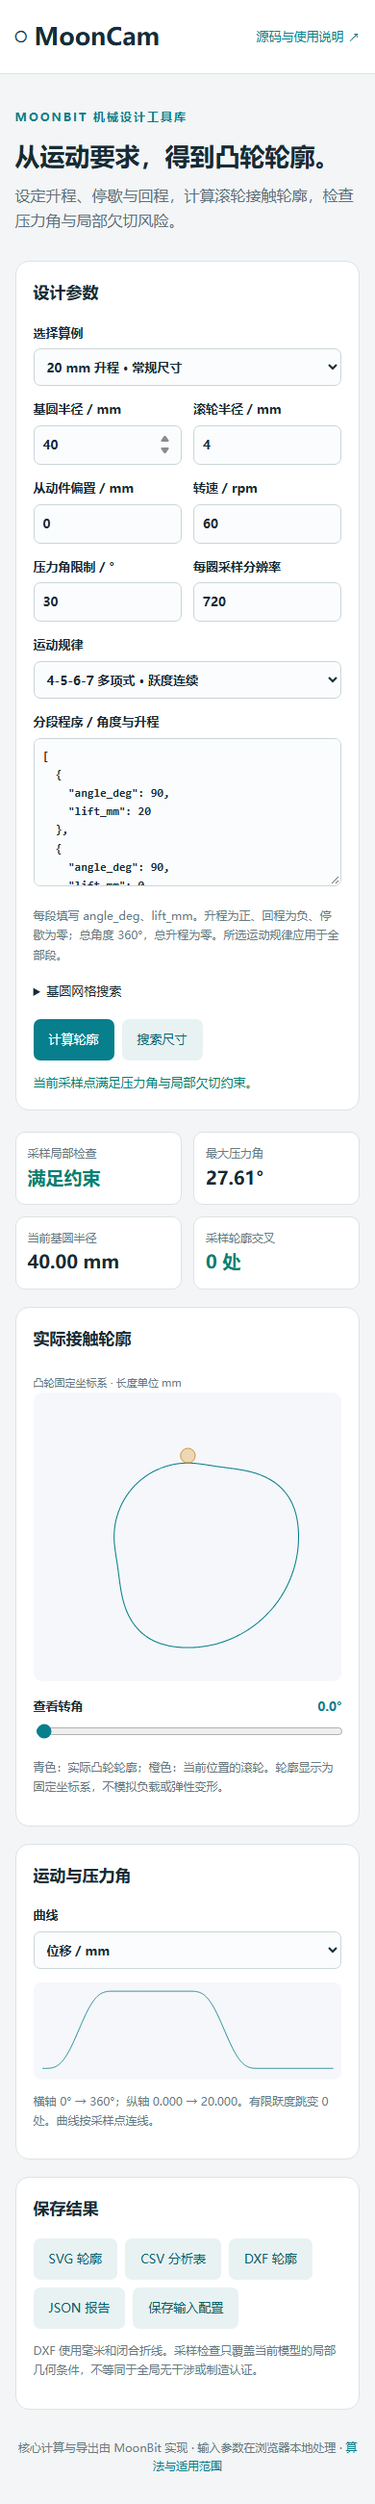
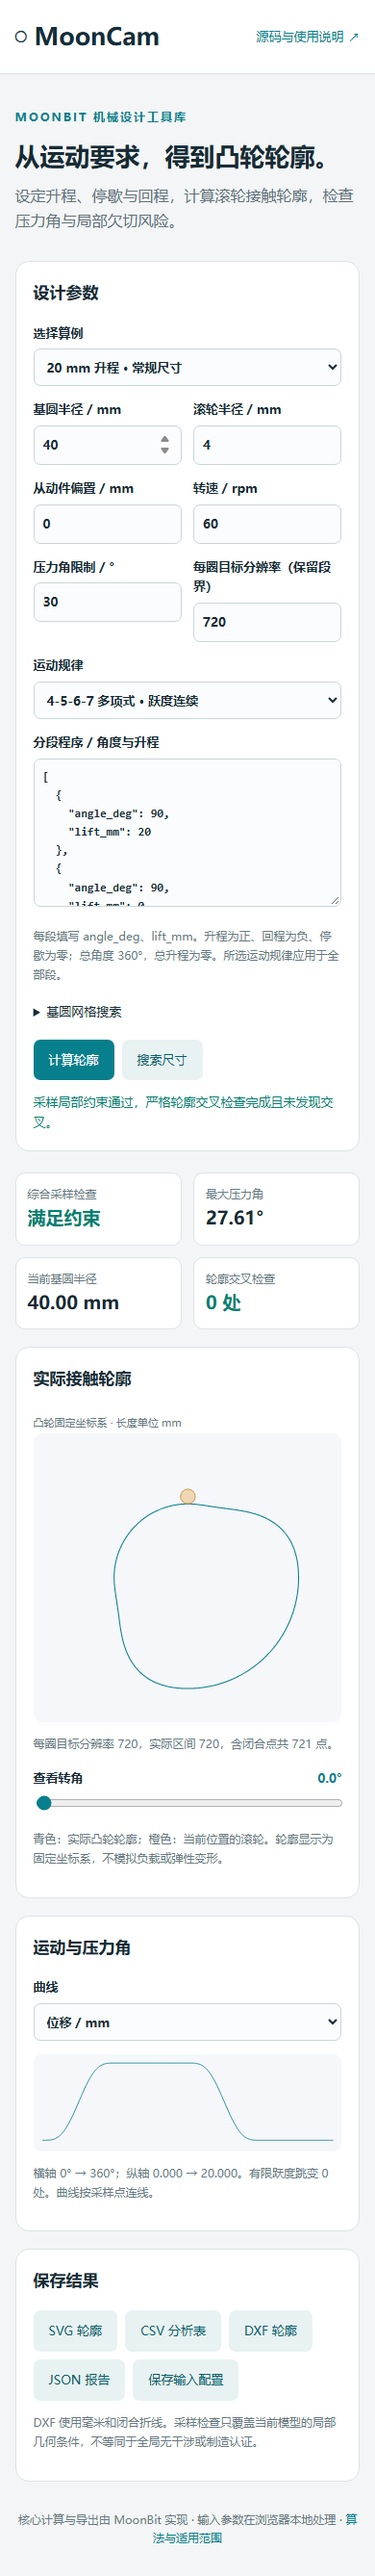
docs: publish schema v2 migration and Chinese review of fourteen findings

diff --git a/docs/优化核查记录.md b/docs/优化核查记录.md
@@ -1,0 +1,62 @@
+# 0.2 优化核查记录
+
+本次针对 14 项反馈逐项检查。基线提交为 2fb4476；原始计时数据见 benchmarks/2026-10-21.json。
+
+| 项目 | 处理与验证 |
+| --- | --- |
+| 1 重复 timed 求值 | 直接使用缓存角导数换算，保留溢出检查 |
+| 2 每点重复参数校验 | 批量入口校验一次，内部使用已校验路径 |
+| 3 从首段扫描 | Program 缓存段边界，任意查询二分定位，采样直接使用段号 |
+| 4 平方交叉枚举 | 保守包围盒分桶，首个公共桶去重；与测试专用二次算法差分比较 |
+| 5 搜索全量分配 | 复用粗细运动网格；标量筛选不计算坐标，不保留 CamPoint 数组 |
+| 6 响应重复输出 | outputs 选择格式，默认仅点数据，输入回显默认关闭 |
+| 7 report 内嵌导出文件 | CLI 保存摘要和文件引用，input.json 单独保存原始配置 |
+| 8 交叉仍报可行 | 综合采样通过必须局部通过且完成零交叉检查；搜索发现交叉继续遍历 |
+| 9 -1 哨兵值 | 改用 complete / failed / not_checked，未完成时 count=null |
+| 10 根切角命名 | 改为 min_offset_factor_angle，JSON 明确弧度后缀 |
+| 11 输入上限 | CLI 与 API 共用 MoonBit 导出的 200000 UTF-8 字节限制，包含中文边界测试 |
+| 12 搜索无解退出码 | no_candidate 对应 3；输入/运行错误对应 1，检查未完成对应 4 |
+| 13 分辨率歧义 | 保留段边界采样，显式报告目标密度、实际区间、含闭合点总数 |
+| 14 科学计数法 DXF | 原输出确实含指数，但 ezdxf 1.4.5 能正确读取；补测试，未将猜测写成已确认缺陷 |
+
+## 性能实测
+
+同一 Node 进程中对旧、新引擎交替计时；预热 5 次、采集 15 次取中位数。下表请求同样的点数据和三种导出格式，用来观察计算改动，而非仅靠省略输出获得加速。
+
+| 工作负载 | 基线 / ms | 优化后 / ms | 比值 |
+| --- | --- | --- | --- |
+| 720 目标分辨率 | 5.25 | 4.15 | 约 1.27 倍 |
+| 4000 目标分辨率 | 77.19 | 33.01 | 约 2.34 倍 |
+| 示例基圆搜索 | 7.03 | 4.04 | 约 1.74 倍 |
+| 128 段程序 | 6.07 | 4.12 | 约 1.47 倍 |
+
+4000 分辨率案例的旧完整响应约 2.41 MB；新默认响应约 1.33 MB，仅摘要约 842 字节。完整选择全部格式时仍有约 2.40 MB，因为这是使用者明确要求的数据。输入副本不是同一轮廓的重复序列化，但默认关闭它可减少体积并避免无意回显。
+
+计时受机器、JIT、输入形状和输出选择影响。分桶在大量长包围盒重叠时仍可能退化，以上不是最坏复杂度或普遍加速保证。
+
+## 重现
+
+```sh
+npm run build
+npm run test:integration
+python tests/oracle.py
+python -m pip install -r requirements-test.txt
+python tests/dxf_interop.py
+npm run benchmark
+```
+
+对照旧版本时，在独立工作树构建基线，再运行：
+
+```sh
+git worktree add --detach artifacts/baseline 2fb4476
+cd artifacts/baseline
+npm run build
+cd ../..
+node tests/benchmark.mjs artifacts/baseline/web/engine.js
+```
+
+脚本写入 artifacts/performance.json。新的基础测试覆盖标量/完整结果一致、分段采样与二分查询一致、交叉算法差分、失败状态、输入字节边界、CLI 退出码、紧凑报告与按需格式。
+
+## 仍需明确的边界
+
+完成的零交叉检查只排除了采样折线的严格交叉，没有证明连续轮廓的相切、共线重叠、采样间回环或远处滚轮干涉不存在。DXF 独立读取只验证特定读取器的互操作，不替代商业 CAD 或加工验证。

diff --git a/README.md b/README.md
@@ -41,9 +41,9 @@ node bin/mooncam.mjs examples/workshop.json --out artifacts/workshop
 npm run serve
 ```
 
-访问 `http://127.0.0.1:4173/`。运行上述流程无需安装 npm 开发依赖。输出目录包含 `profile.svg`、`profile.csv`、`profile.dxf`、`report.json`。
+访问 `http://127.0.0.1:4173/`。运行上述流程无需安装 npm 开发依赖。输出目录包含 `profile.svg`、`profile.csv`、`profile.dxf`、`report.json`、`input.json`。
 
-CLI 退出码：`0` 表示采样局部约束满足，`2` 表示不满足，`1` 表示输入或运行错误。退出码不包含全局无干涉和制造认证。
+CLI 退出码：`0` 表示局部条件通过且严格折线交叉检查完成、未发现交叉；`2` 表示采样检查拒绝；`3` 表示搜索未找到候选；`4` 表示检查未完成；`1` 表示输入或运行错误。通过采样检查不等于连续轮廓全局无干涉或制造认证。
 
 ## 四个可运行案例
 
@@ -104,6 +104,8 @@ moon test --target js
 npm run build
 npm run test:integration
 python tests/oracle.py
+python -m pip install -r requirements-test.txt
+python tests/dxf_interop.py
 npm ci
 npx playwright install chromium
 npm run test:browser
@@ -115,7 +117,7 @@ npm run test:browser
 
 ## 适用边界
 
-`sampled_local_feasible` 只表示当前采样点满足压力角与局部偏置条件。采样折线交叉另行报告；零交叉不代表连续轮廓没有相切、采样间回环或非局部滚轮干涉。应提高分辨率检查收敛；采样不能替代连续极值求解。
+`sampled_local_feasible` 只表示局部条件；`sampled_feasible` 还要求严格折线交叉检查完成且计数为零。`crossing_check` 明确区分完成、失败和未检查。零交叉不代表连续轮廓没有相切、采样间回环或非局部滚轮干涉。应提高分辨率检查收敛；采样不能替代连续极值求解。
 
 当前不包含强度、载荷、弹簧预紧、磨损、弹性和公差分析。DXF 是离散轮廓交换文件，未承诺可直接加工。详见 [算法与适用范围](docs/算法与适用范围.md)。
 
@@ -124,3 +126,9 @@ npm run test:browser
 按公开机械运动学公式独立编写，未复制第三方凸轮实现代码。参考项目与来源见 [参考与来源](THIRD_PARTY_NOTICES.md)，采用 [MIT 许可证](LICENSE)。已有数学方法不作为原创理论申报；项目贡献是 MoonBit 实现、组合接口、验证和工作流。
 
 [后续改进清单](docs/后续改进清单.md) 记录十项尚未实现的能力。
+
+## 0.2 版本接口变化
+
+JSON schema 升至 2。默认只返回点数据和摘要；通过 `outputs` 选择 points / csv / svg / dxf，空数组仅返回摘要，`include_input` 控制输入回显。CLI 自动按需请求格式，报告只保存摘要与文件引用。`resolution` 改为 `sampling.nominal_resolution`，实际点数另行报告；根切角字段改名为 `min_offset_factor_angle`。旧版本调用方需按 [输入输出说明](docs/输入输出说明.md) 迁移。
+
+本次 14 项核查、正确性测试、性能实测与尚未覆盖的边界见 [优化核查记录](docs/优化核查记录.md)。

diff --git a/docs/算法与适用范围.md b/docs/算法与适用范围.md
@@ -52,10 +52,18 @@ k = (dy·ddx − dx·ddy) / |P′|³
 
 基圆搜索从下界开始遍历有限等距网格，先检查局部约束，再用双倍角度分辨率复核。没有假定曲率可行性随半径单调。找不到候选不证明连续参数空间不存在解，首个候选不代表全局最优。
 
-profile_crossings 检查非相邻折线边的严格交叉，排除相邻边及首尾公共端点，采用与尺度相关的方向容差。未覆盖相切、共线重叠、采样间回环和非局部滚轮干涉。JSON 分别报告交叉数与局部可行性；尺寸搜索按局部约束筛选，交叉结果需另行审阅。
+profile_crossings 检查非相邻折线边的严格交叉，排除相邻边及首尾公共端点，采用与尺度相关的方向容差。未覆盖相切、共线重叠、采样间回环和非局部滚轮干涉。JSON 分别报告交叉数与局部可行性；尺寸搜索先使用不保留坐标的标量路径筛选，再在细网格生成轮廓并完成交叉检查；发现交叉则继续搜索。检查失败不会被当成零交叉。
 
 ## 数值与工程边界
 
 输入拒绝 NaN、无穷值、零滚轮半径、不闭合程序和非法偏置。JSON 限制输入大小、段数和采样数；公开计算接口检查溢出。接近压力角阈值或偏置奇异、窄角度快速升程时需要加密采样。
 
 不包含强度、载荷、动力学稳定性、接触保持、润滑、磨损、公差和刀具补偿。当前输出用于运动学和几何初选，离散 DXF 不能视为制造合格证明。
+
+## 0.2 批量计算实现
+
+Program 缓存每段起始角与起始升程。任意角度查询使用二分定位；采样循环直接使用已知段号，以 O(N+S) 构建运动网格。几何尺寸与转速在公开批量入口校验一次，点内保留数值溢出检查。角导数直接换算时间导数，不重复调用 evaluate。
+
+搜索复用粗、细两份与几何无关的运动网格。标量路径使用旋转坐标系中的解析压力角和曲率，不计算点坐标、不保留 CamPoint 数组；只有通过局部筛选的候选才生成完整轮廓。
+
+交叉检测按 x 方向空间分桶，线段覆盖其包围盒跨越的全部桶；线段对由首个公共桶唯一处理。窄包围盒下可减少候选对；大量长包围盒重叠时仍可能退化为平方级，不承诺所有输入都接近线性。原始双重循环只保留在测试中作差分参照。

diff --git a/docs/验证记录.md b/docs/验证记录.md
@@ -8,8 +8,8 @@
 | --- | --- |
 | moon fmt --check | 通过 |
 | moon check --deny-warn --target all | 通过 |
-| MoonBit 单元与性质测试 | 17 组，Wasm、Wasm-GC、JS 各通过 |
-| CLI 与导出集成测试 | 5 组通过 |
+| MoonBit 单元与性质测试 | 25 组，Wasm、Wasm-GC、JS 各通过 |
+| CLI 与导出集成测试 | 10 组通过 |
 | 独立数值验证 | 18 组参数、432 个接触点通过 |
 | 浏览器测试 | 桌面与手机 2 组通过 |
 | 纯 MoonBit 示例 | Wasm-GC 后端直接运行成功 |
@@ -21,7 +21,7 @@
 
 本次最大接触点误差约 5.98e-8 mm，最大曲率差约 2.63e-9 /mm。它们是这些算例的差分误差，不是所有输入的误差上界，也不是加工精度承诺。
 
-DXF 测试用独立分组读取方式检查毫米声明、闭合标志、顶点数和坐标；CSV 测试检查行数、角度导数列与数值。尚未完成商业 CAD 软件或实体加工验证。
+DXF 测试用独立分组读取方式检查毫米声明、闭合标志、顶点数和坐标；CSV 测试检查行数、角度导数列与数值。新增 ezdxf 1.4.5 独立读取测试，3 组文件、18 个科学计数法坐标值均被接受，毫米声明、闭合标志和坐标核对通过。此结果不代表所有商业 CAD 软件均兼容，也未进行实体加工验证。
 
 ## 可复现命令
 

diff --git a/CHANGELOG.md b/CHANGELOG.md
@@ -1,5 +1,15 @@
 # 更新记录
 
+## 0.2.0
+
+- 缓存段起点，二分查询任意角度，按已知段号线性生成运动网格。
+- 复用角导数，批量校验参数，复用粗细网格；搜索使用不保留坐标的标量筛选。
+- 交叉检测按包围盒分桶并去重，以二次算法作测试参照。
+- 采样接受状态同时要求局部条件和完成的零交叉检查；失败和未检查不再压缩为 -1。
+- JSON schema 2 支持按需输出与可选输入回显，CLI 报告引用独立文件。
+- 统一 UTF-8 字节限制，新增无候选和检查未完成退出码，明确实际点数。
+- 修正最小偏置因子角度命名；增加 DXF 独立读取、接口回归和性能实测。
+
 ## 0.1.0
 
 - 摆线、3-4-5、4-5-6-7 运动规律及解析导数。

diff --git a/THIRD_PARTY_NOTICES.md b/THIRD_PARTY_NOTICES.md
@@ -19,6 +19,7 @@ MoonCam 按公开机械运动学与微分几何公式独立编写，当前未复
 - MoonBit 工具链和 moonbitlang/core：编译、数学及 JSON 基础能力，遵循各自许可证。
 - Node.js：可选 CLI 和网页宿主。
 - Playwright：Apache-2.0，仅用于浏览器开发测试。
-- Python 标准库：仅用于独立验证。
+- Python 标准库：用于独立数值验证。
+- [ezdxf](https://github.com/mozman/ezdxf)：MIT，仅用于测试读取导出文件；版本固定在 requirements-test.txt，生产运行不依赖它。
 
 本仓库手写代码使用 MIT 许可证。编译产物在本地或 CI 生成。
